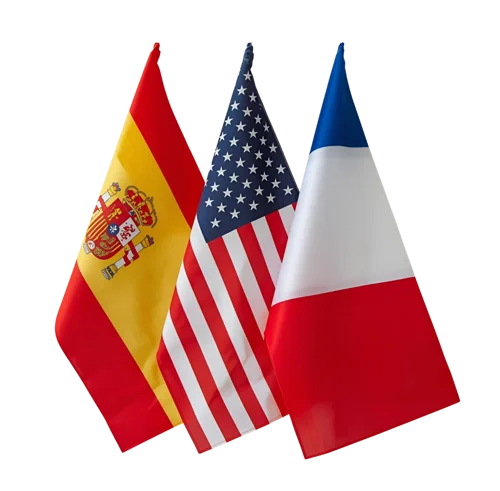
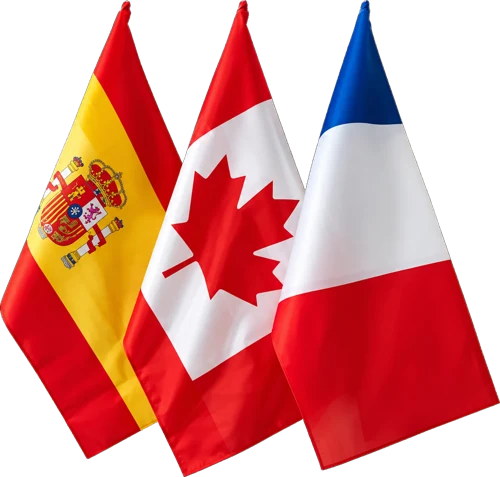
Add files via upload

diff --git a/fr/a-propos/index.html b/fr/a-propos/index.html
@@ -16,7 +16,7 @@
 <link rel="preconnect" href="https://fonts.googleapis.com">
 <link rel="preconnect" href="https://fonts.gstatic.com" crossorigin>
 <link href="https://fonts.googleapis.com/css2?family=DM+Sans:opsz,wght@9..40,400;9..40,500;9..40,700&family=Montserrat:wght@600;700;800&display=swap" rel="stylesheet">
-<link rel="stylesheet" href="../../assets/css/styles.css?v=12">
+<link rel="stylesheet" href="../../assets/css/styles.css?v=13">
 </head>
 <body>
 <a class="skip" href="#main">Aller au contenu</a>
@@ -69,7 +69,7 @@
 
 <section class="langs">
   <div class="wrap langs-grid">
-    <img class="langs-img" src="../../assets/img/languages-flags.webp" alt="Drapeaux représentant l’anglais, l’espagnol et le français" width="500" height="491" loading="lazy">
+    <img class="langs-img" src="../../assets/img/languages-flags.webp" alt="Drapeaux de l’Espagne, du Canada et de la France, représentant l’espagnol, l’anglais et le français" width="500" height="477" loading="lazy">
     <div>
       <h2>Je parle votre langue</h2>
       <p>Je travaille avec mes clients en français, en anglais et en espagnol, du premier appel jusqu’à la remise des clés. Pouvoir tout demander dans sa propre langue fait une grande différence quand on déménage dans un nouvel endroit.</p>
@@ -129,6 +129,6 @@
   <p class="wrap legal">© 2026 Good Rentals Canada. Good Rentals est un service de recherche de location, et non un propriétaire, un gestionnaire immobilier ou une agence immobilière.</p>
 </footer>
 
-<script src="../../assets/js/main.js?v=12" defer></script>
+<script src="../../assets/js/main.js?v=13" defer></script>
 </body>
 </html>

diff --git a/es/sobre-mi/index.html b/es/sobre-mi/index.html
@@ -16,7 +16,7 @@
 <link rel="preconnect" href="https://fonts.googleapis.com">
 <link rel="preconnect" href="https://fonts.gstatic.com" crossorigin>
 <link href="https://fonts.googleapis.com/css2?family=DM+Sans:opsz,wght@9..40,400;9..40,500;9..40,700&family=Montserrat:wght@600;700;800&display=swap" rel="stylesheet">
-<link rel="stylesheet" href="../../assets/css/styles.css?v=12">
+<link rel="stylesheet" href="../../assets/css/styles.css?v=13">
 </head>
 <body>
 <a class="skip" href="#main">Saltar al contenido</a>
@@ -69,7 +69,7 @@
 
 <section class="langs">
   <div class="wrap langs-grid">
-    <img class="langs-img" src="../../assets/img/languages-flags.webp" alt="Banderas que representan el español, el inglés y el francés" width="500" height="491" loading="lazy">
+    <img class="langs-img" src="../../assets/img/languages-flags.webp" alt="Banderas de España, Canadá y Francia, que representan el español, el inglés y el francés" width="500" height="477" loading="lazy">
     <div>
       <h2>Hablo tu idioma</h2>
       <p>Atiendo a mis clientes en español, inglés y francés, desde la primera llamada hasta que recibes tus llaves. Poder preguntar todo en tu propio idioma hace una gran diferencia cuando te mudas a un nuevo lugar.</p>
@@ -129,6 +129,6 @@
   <p class="wrap legal">© 2026 Good Rentals Canada. Good Rentals es un servicio de búsqueda de alquileres, no un propietario, administrador de propiedades ni agencia inmobiliaria.</p>
 </footer>
 
-<script src="../../assets/js/main.js?v=12" defer></script>
+<script src="../../assets/js/main.js?v=13" defer></script>
 </body>
 </html>

diff --git a/about/index.html b/about/index.html
@@ -16,7 +16,7 @@
 <link rel="preconnect" href="https://fonts.googleapis.com">
 <link rel="preconnect" href="https://fonts.gstatic.com" crossorigin>
 <link href="https://fonts.googleapis.com/css2?family=DM+Sans:opsz,wght@9..40,400;9..40,500;9..40,700&family=Montserrat:wght@600;700;800&display=swap" rel="stylesheet">
-<link rel="stylesheet" href="../assets/css/styles.css?v=12">
+<link rel="stylesheet" href="../assets/css/styles.css?v=13">
 </head>
 <body>
 <a class="skip" href="#main">Skip to content</a>
@@ -69,7 +69,7 @@
 
 <section class="langs">
   <div class="wrap langs-grid">
-    <img class="langs-img" src="../assets/img/languages-flags.webp" alt="Flags representing English, Spanish and French" width="500" height="491" loading="lazy">
+    <img class="langs-img" src="../assets/img/languages-flags.webp" alt="Flags of Spain, Canada and France, representing Spanish, English and French" width="500" height="477" loading="lazy">
     <div>
       <h2>I speak your language</h2>
       <p>I work with clients in English, Spanish and French, from the first call until you get your keys. Being able to ask everything in your own language makes a big difference when you’re moving to a new place.</p>
@@ -129,6 +129,6 @@
   <p class="wrap legal">© 2026 Good Rentals Canada. Good Rentals is a rental search service, not a landlord, property manager or real estate brokerage.</p>
 </footer>
 
-<script src="../assets/js/main.js?v=12" defer></script>
+<script src="../assets/js/main.js?v=13" defer></script>
 </body>
 </html>

diff --git a/fr/locataires/index.html b/fr/locataires/index.html
@@ -16,7 +16,7 @@
 <link rel="preconnect" href="https://fonts.googleapis.com">
 <link rel="preconnect" href="https://fonts.gstatic.com" crossorigin>
 <link href="https://fonts.googleapis.com/css2?family=DM+Sans:opsz,wght@9..40,400;9..40,500;9..40,700&family=Montserrat:wght@600;700;800&display=swap" rel="stylesheet">
-<link rel="stylesheet" href="../../assets/css/styles.css?v=12">
+<link rel="stylesheet" href="../../assets/css/styles.css?v=13">
 </head>
 <body>
 <a class="skip" href="#main">Aller au contenu</a>
@@ -163,6 +163,6 @@
   <p class="wrap legal">© 2026 Good Rentals Canada. Good Rentals est un service de recherche de location, et non un propriétaire, un gestionnaire immobilier ou une agence immobilière.</p>
 </footer>
 
-<script src="../../assets/js/main.js?v=12" defer></script>
+<script src="../../assets/js/main.js?v=13" defer></script>
 </body>
 </html>

diff --git a/fr/proprietaires/index.html b/fr/proprietaires/index.html
@@ -16,7 +16,7 @@
 <link rel="preconnect" href="https://fonts.googleapis.com">
 <link rel="preconnect" href="https://fonts.gstatic.com" crossorigin>
 <link href="https://fonts.googleapis.com/css2?family=DM+Sans:opsz,wght@9..40,400;9..40,500;9..40,700&family=Montserrat:wght@600;700;800&display=swap" rel="stylesheet">
-<link rel="stylesheet" href="../../assets/css/styles.css?v=12">
+<link rel="stylesheet" href="../../assets/css/styles.css?v=13">
 </head>
 <body>
 <a class="skip" href="#main">Aller au contenu</a>
@@ -167,6 +167,6 @@
   <p class="wrap legal">© 2026 Good Rentals Canada. Good Rentals est un service de recherche de location, et non un propriétaire, un gestionnaire immobilier ou une agence immobilière.</p>
 </footer>
 
-<script src="../../assets/js/main.js?v=12" defer></script>
+<script src="../../assets/js/main.js?v=13" defer></script>
 </body>
 </html>

diff --git a/fr/questions-frequentes/index.html b/fr/questions-frequentes/index.html
@@ -16,7 +16,7 @@
 <link rel="preconnect" href="https://fonts.googleapis.com">
 <link rel="preconnect" href="https://fonts.gstatic.com" crossorigin>
 <link href="https://fonts.googleapis.com/css2?family=DM+Sans:opsz,wght@9..40,400;9..40,500;9..40,700&family=Montserrat:wght@600;700;800&display=swap" rel="stylesheet">
-<link rel="stylesheet" href="../../assets/css/styles.css?v=12">
+<link rel="stylesheet" href="../../assets/css/styles.css?v=13">
 </head>
 <body>
 <a class="skip" href="#main">Aller au contenu</a>
@@ -166,6 +166,6 @@
   <p class="wrap legal">© 2026 Good Rentals Canada. Good Rentals est un service de recherche de location, et non un propriétaire, un gestionnaire immobilier ou une agence immobilière.</p>
 </footer>
 
-<script src="../../assets/js/main.js?v=12" defer></script>
+<script src="../../assets/js/main.js?v=13" defer></script>
 </body>
 </html>

diff --git a/es/inquilinos/index.html b/es/inquilinos/index.html
@@ -16,7 +16,7 @@
 <link rel="preconnect" href="https://fonts.googleapis.com">
 <link rel="preconnect" href="https://fonts.gstatic.com" crossorigin>
 <link href="https://fonts.googleapis.com/css2?family=DM+Sans:opsz,wght@9..40,400;9..40,500;9..40,700&family=Montserrat:wght@600;700;800&display=swap" rel="stylesheet">
-<link rel="stylesheet" href="../../assets/css/styles.css?v=12">
+<link rel="stylesheet" href="../../assets/css/styles.css?v=13">
 </head>
 <body>
 <a class="skip" href="#main">Saltar al contenido</a>
@@ -163,6 +163,6 @@
   <p class="wrap legal">© 2026 Good Rentals Canada. Good Rentals es un servicio de búsqueda de alquileres, no un propietario, administrador de propiedades ni agencia inmobiliaria.</p>
 </footer>
 
-<script src="../../assets/js/main.js?v=12" defer></script>
+<script src="../../assets/js/main.js?v=13" defer></script>
 </body>
 </html>

diff --git a/es/preguntas-frecuentes/index.html b/es/preguntas-frecuentes/index.html
@@ -16,7 +16,7 @@
 <link rel="preconnect" href="https://fonts.googleapis.com">
 <link rel="preconnect" href="https://fonts.gstatic.com" crossorigin>
 <link href="https://fonts.googleapis.com/css2?family=DM+Sans:opsz,wght@9..40,400;9..40,500;9..40,700&family=Montserrat:wght@600;700;800&display=swap" rel="stylesheet">
-<link rel="stylesheet" href="../../assets/css/styles.css?v=12">
+<link rel="stylesheet" href="../../assets/css/styles.css?v=13">
 </head>
 <body>
 <a class="skip" href="#main">Saltar al contenido</a>
@@ -166,6 +166,6 @@
   <p class="wrap legal">© 2026 Good Rentals Canada. Good Rentals es un servicio de búsqueda de alquileres, no un propietario, administrador de propiedades ni agencia inmobiliaria.</p>
 </footer>
 
-<script src="../../assets/js/main.js?v=12" defer></script>
+<script src="../../assets/js/main.js?v=13" defer></script>
 </body>
 </html>

diff --git a/es/propietarios/index.html b/es/propietarios/index.html
@@ -16,7 +16,7 @@
 <link rel="preconnect" href="https://fonts.googleapis.com">
 <link rel="preconnect" href="https://fonts.gstatic.com" crossorigin>
 <link href="https://fonts.googleapis.com/css2?family=DM+Sans:opsz,wght@9..40,400;9..40,500;9..40,700&family=Montserrat:wght@600;700;800&display=swap" rel="stylesheet">
-<link rel="stylesheet" href="../../assets/css/styles.css?v=12">
+<link rel="stylesheet" href="../../assets/css/styles.css?v=13">
 </head>
 <body>
 <a class="skip" href="#main">Saltar al contenido</a>
@@ -167,6 +167,6 @@
   <p class="wrap legal">© 2026 Good Rentals Canada. Good Rentals es un servicio de búsqueda de alquileres, no un propietario, administrador de propiedades ni agencia inmobiliaria.</p>
 </footer>
 
-<script src="../../assets/js/main.js?v=12" defer></script>
+<script src="../../assets/js/main.js?v=13" defer></script>
 </body>
 </html>

diff --git a/fr/index.html b/fr/index.html
@@ -16,7 +16,7 @@
 <link rel="preconnect" href="https://fonts.googleapis.com">
 <link rel="preconnect" href="https://fonts.gstatic.com" crossorigin>
 <link href="https://fonts.googleapis.com/css2?family=DM+Sans:opsz,wght@9..40,400;9..40,500;9..40,700&family=Montserrat:wght@600;700;800&display=swap" rel="stylesheet">
-<link rel="stylesheet" href="../assets/css/styles.css?v=12">
+<link rel="stylesheet" href="../assets/css/styles.css?v=13">
 </head>
 <body>
 <a class="skip" href="#main">Aller au contenu</a>
@@ -310,6 +310,6 @@
   <p class="wrap legal">© 2026 Good Rentals Canada. Good Rentals est un service de recherche de location, et non un propriétaire, un gestionnaire immobilier ou une agence immobilière.</p>
 </footer>
 
-<script src="../assets/js/main.js?v=12" defer></script>
+<script src="../assets/js/main.js?v=13" defer></script>
 </body>
 </html>

diff --git a/es/index.html b/es/index.html
@@ -16,7 +16,7 @@
 <link rel="preconnect" href="https://fonts.googleapis.com">
 <link rel="preconnect" href="https://fonts.gstatic.com" crossorigin>
 <link href="https://fonts.googleapis.com/css2?family=DM+Sans:opsz,wght@9..40,400;9..40,500;9..40,700&family=Montserrat:wght@600;700;800&display=swap" rel="stylesheet">
-<link rel="stylesheet" href="../assets/css/styles.css?v=12">
+<link rel="stylesheet" href="../assets/css/styles.css?v=13">
 </head>
 <body>
 <a class="skip" href="#main">Saltar al contenido</a>
@@ -310,6 +310,6 @@
   <p class="wrap legal">© 2026 Good Rentals Canada. Good Rentals es un servicio de búsqueda de alquileres, no un propietario, administrador de propiedades ni agencia inmobiliaria.</p>
 </footer>
 
-<script src="../assets/js/main.js?v=12" defer></script>
+<script src="../assets/js/main.js?v=13" defer></script>
 </body>
 </html>

diff --git a/faq/index.html b/faq/index.html
@@ -16,7 +16,7 @@
 <link rel="preconnect" href="https://fonts.googleapis.com">
 <link rel="preconnect" href="https://fonts.gstatic.com" crossorigin>
 <link href="https://fonts.googleapis.com/css2?family=DM+Sans:opsz,wght@9..40,400;9..40,500;9..40,700&family=Montserrat:wght@600;700;800&display=swap" rel="stylesheet">
-<link rel="stylesheet" href="../assets/css/styles.css?v=12">
+<link rel="stylesheet" href="../assets/css/styles.css?v=13">
 </head>
 <body>
 <a class="skip" href="#main">Skip to content</a>
@@ -166,6 +166,6 @@
   <p class="wrap legal">© 2026 Good Rentals Canada. Good Rentals is a rental search service, not a landlord, property manager or real estate brokerage.</p>
 </footer>
 
-<script src="../assets/js/main.js?v=12" defer></script>
+<script src="../assets/js/main.js?v=13" defer></script>
 </body>
 </html>
